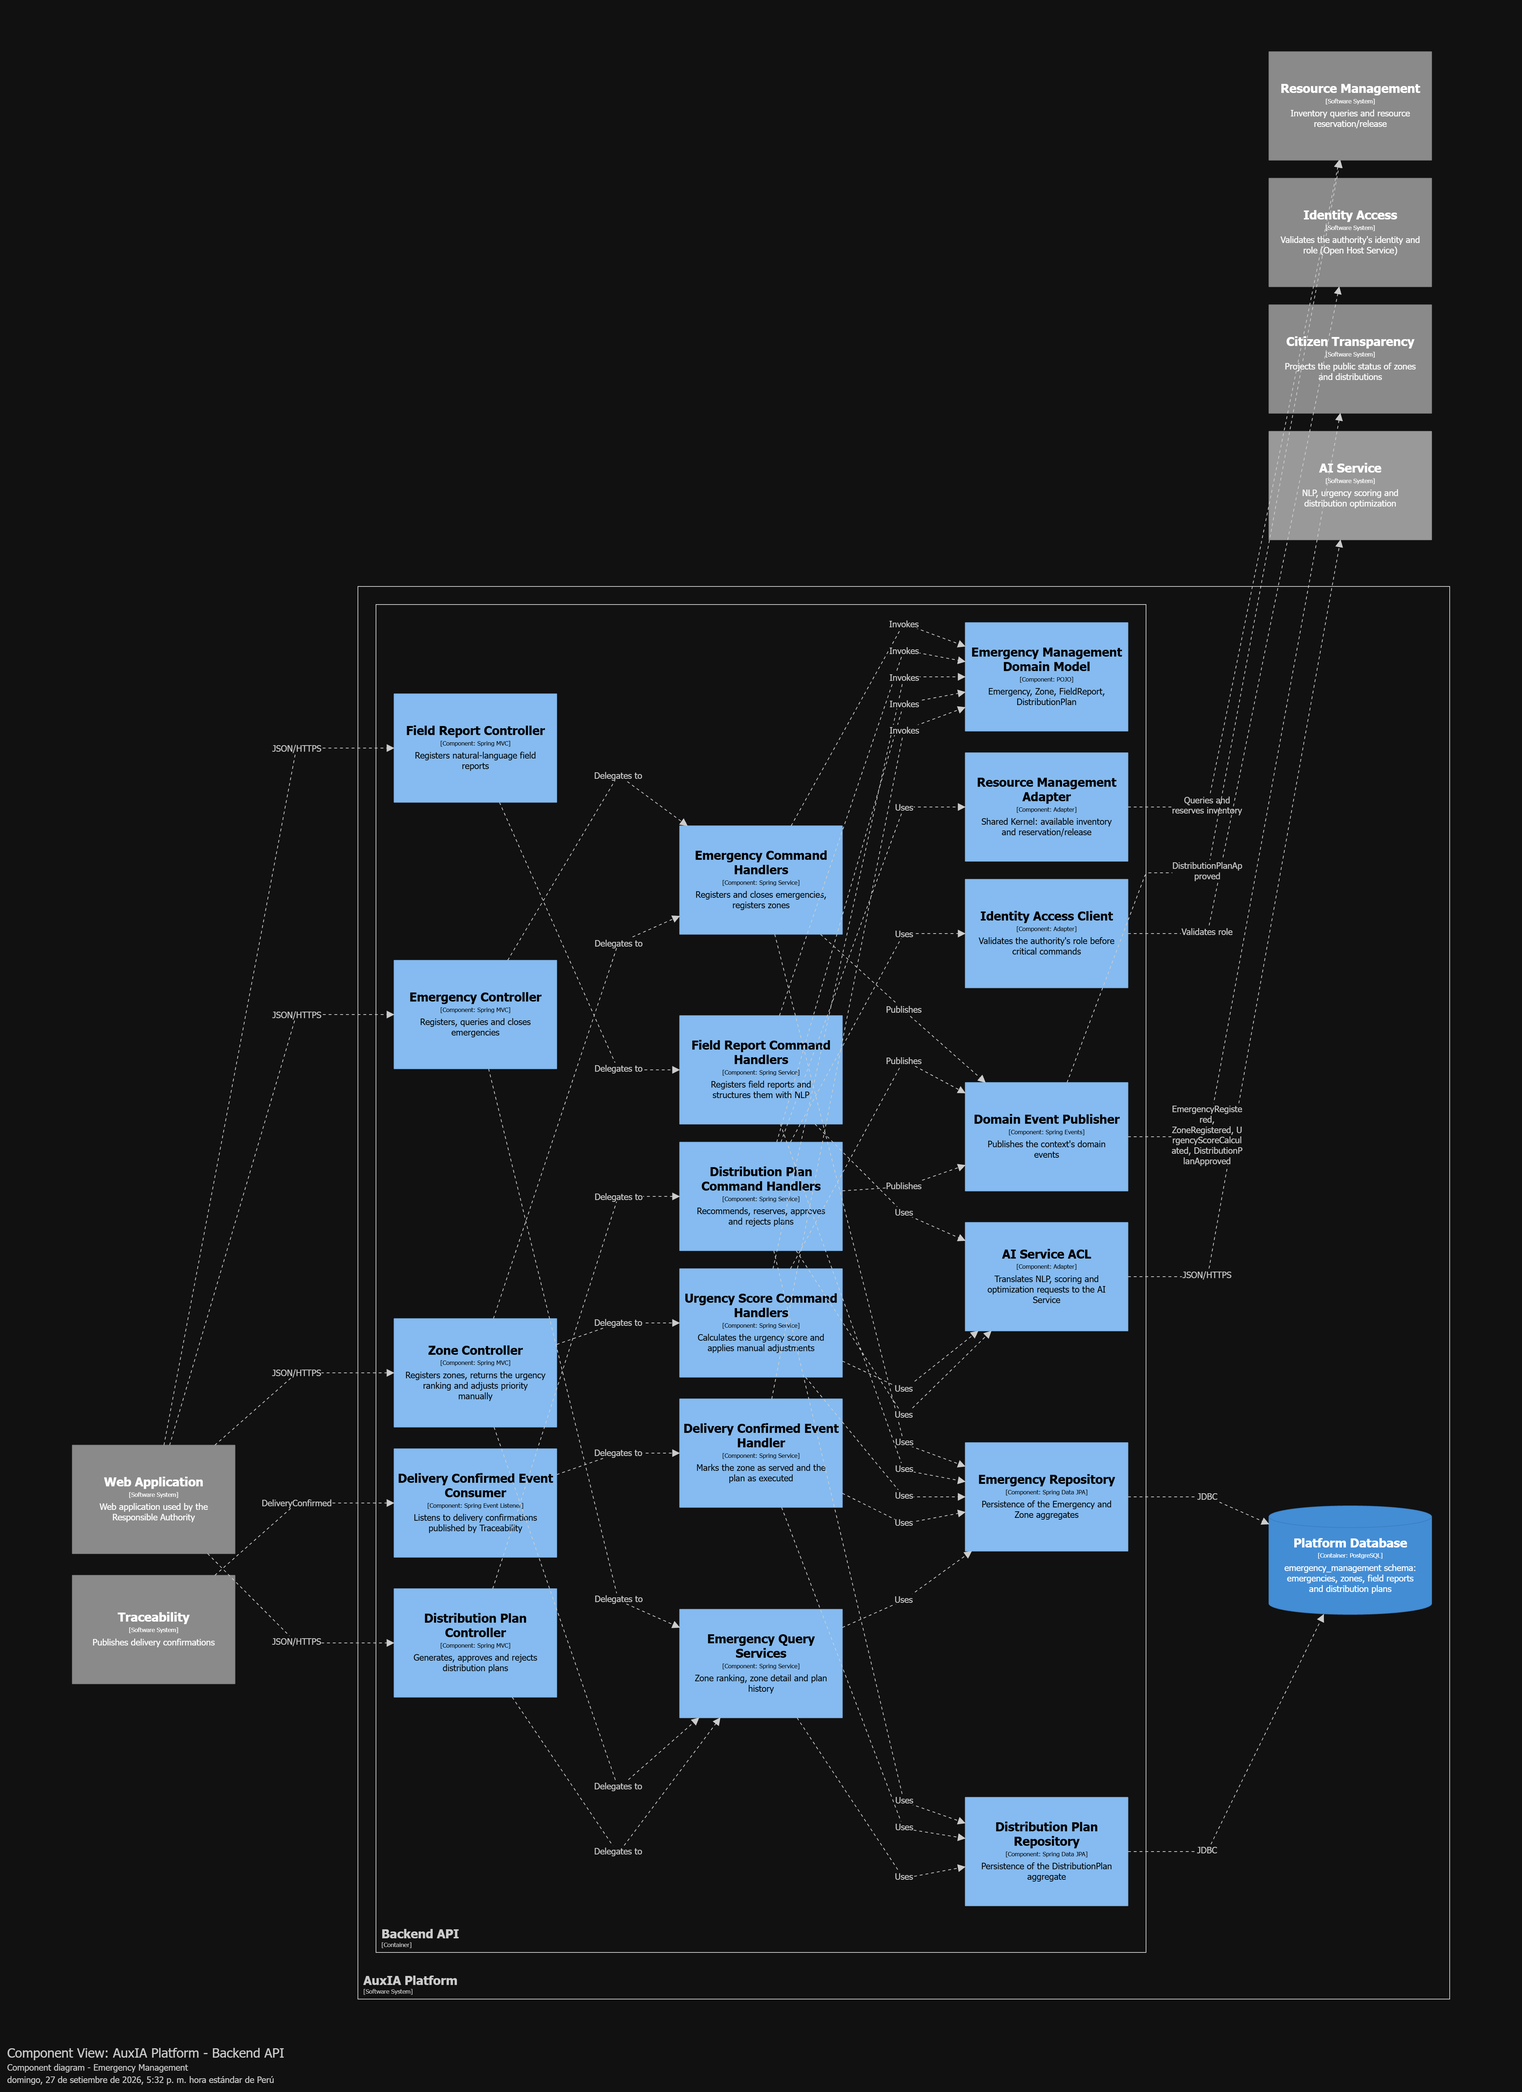
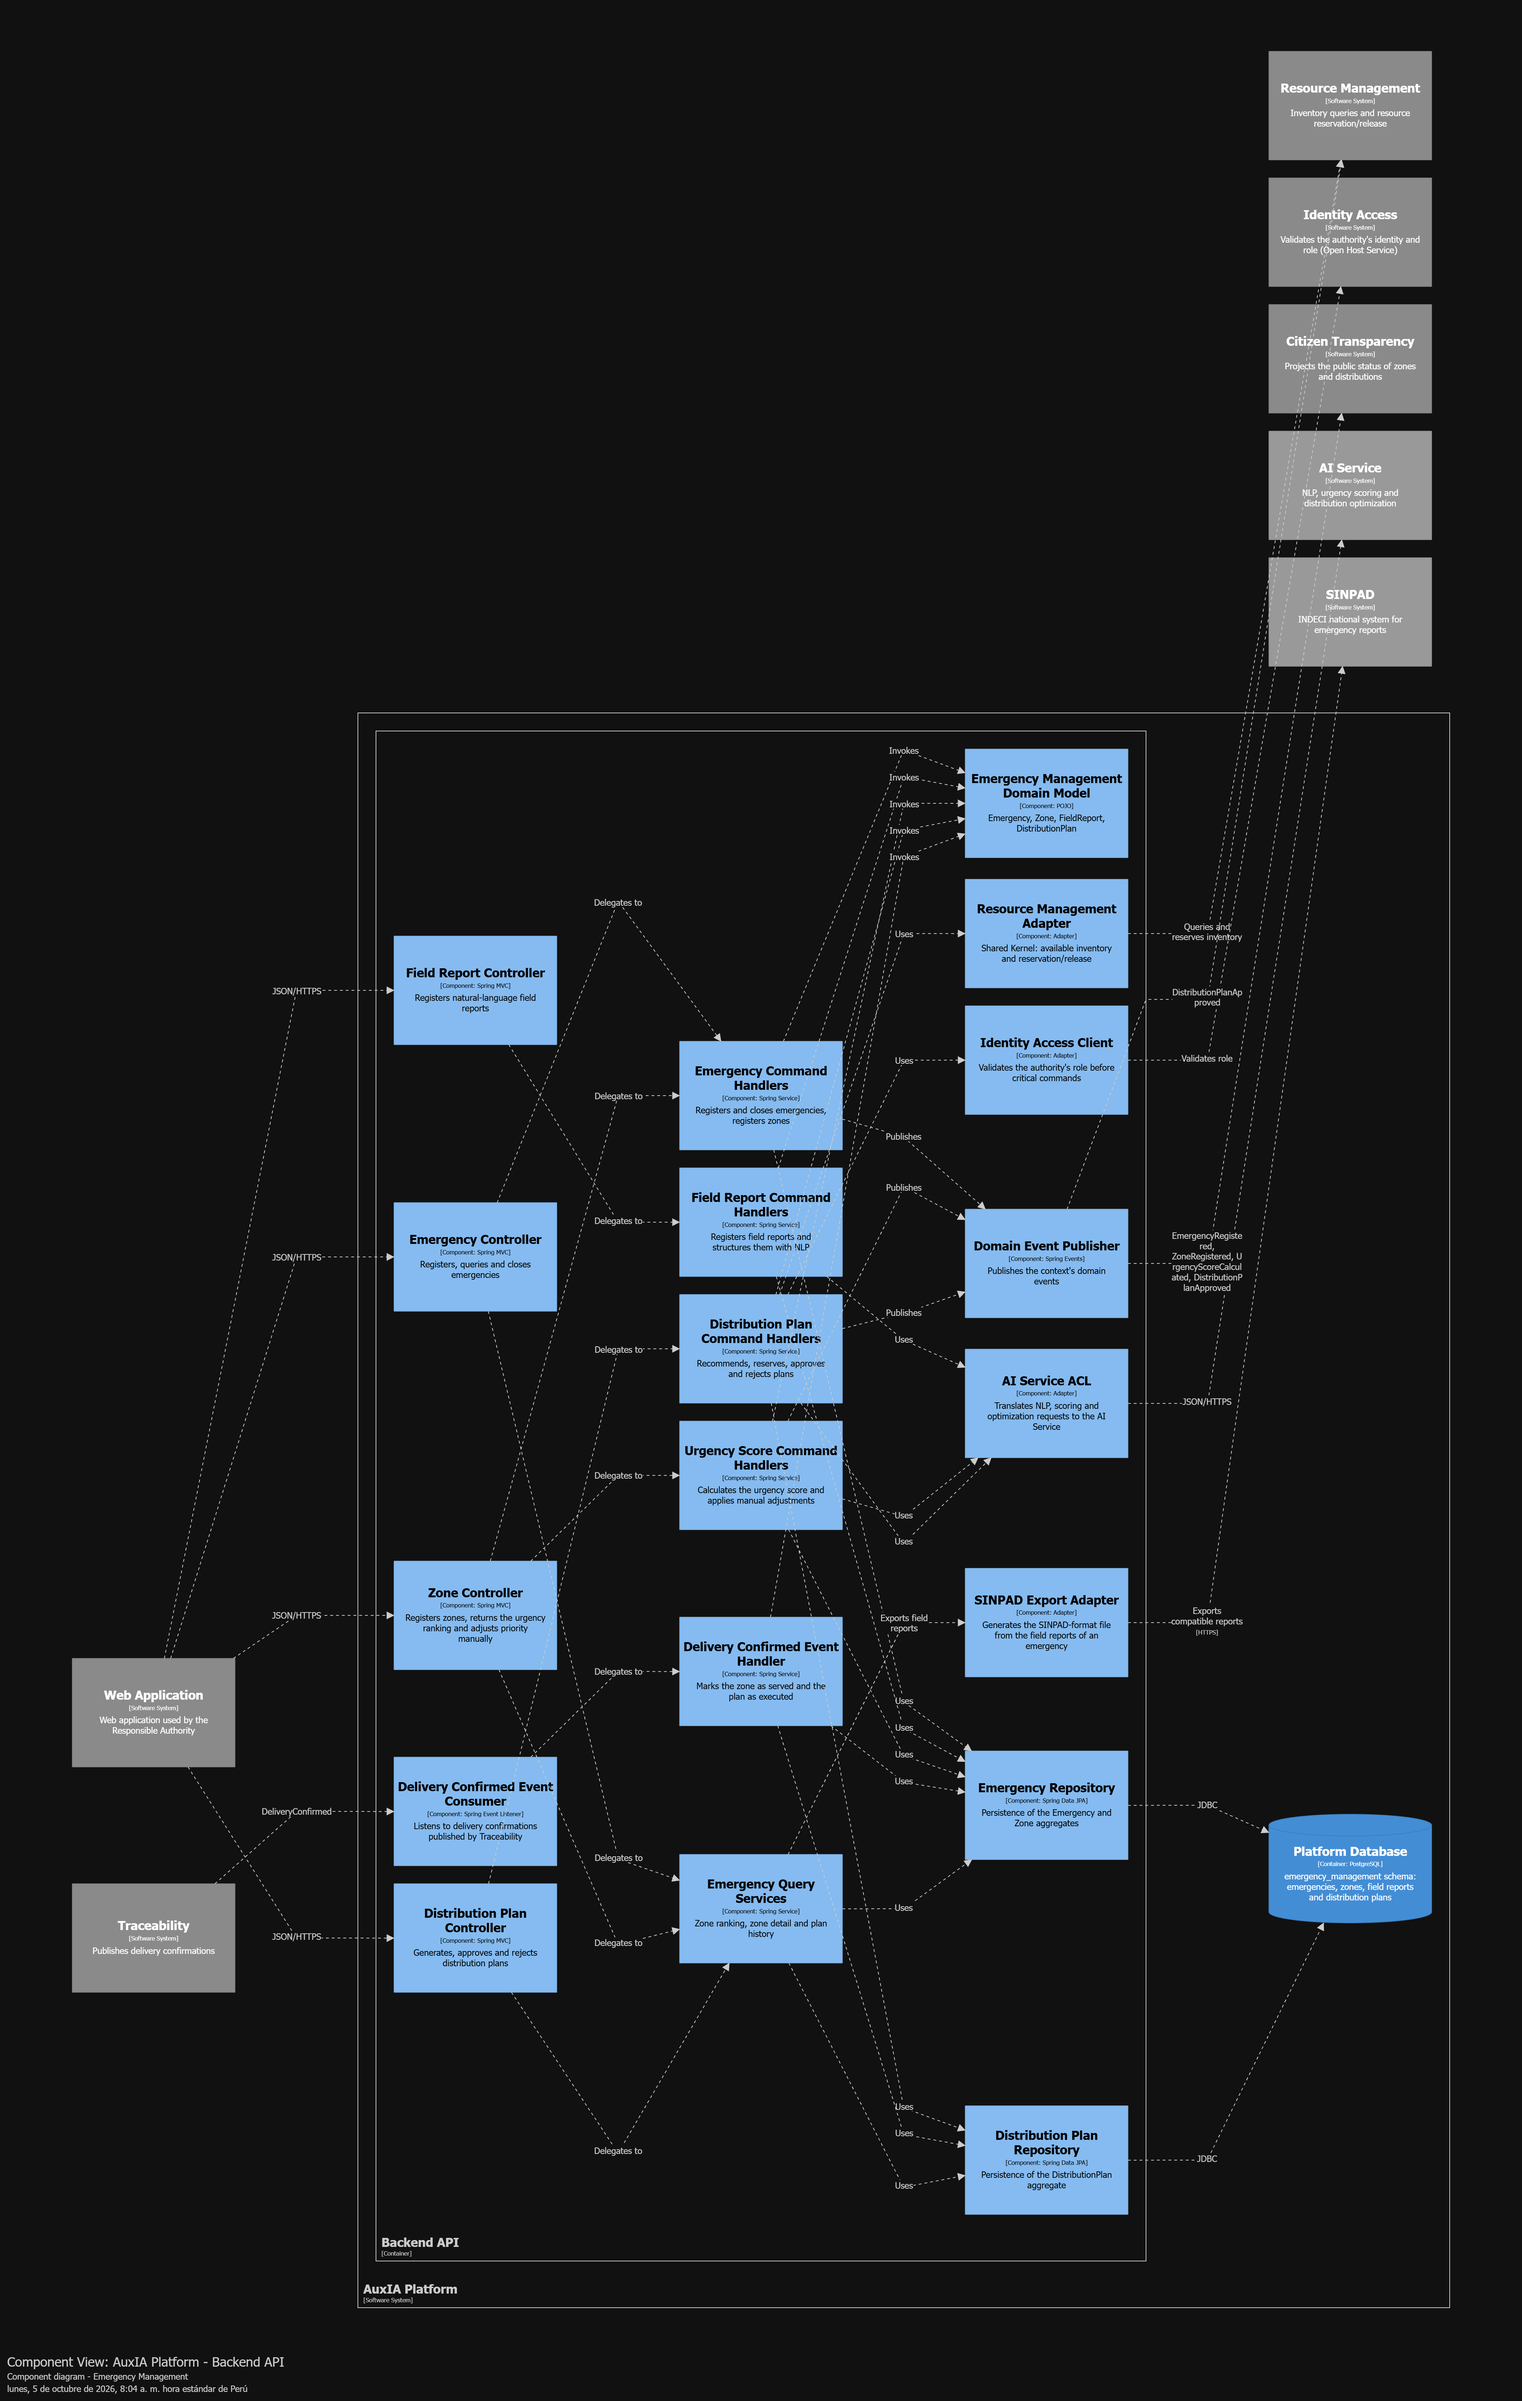
docs: add SINPAD export adapter to emergency management diagrams

diff --git a/chapters/chapter5.md b/chapters/chapter5.md
@@ -207,7 +207,7 @@ Los recursos de entrada son `RegisterEmergencyRequest`, `RegisterZoneRequest`, `
 
 ### 5.1.3. Application Layer
 
-La capa de aplicación tiene un Command Handler por caso de uso, dos Event Handlers y tres Query Services. Cada handler recibe los repositorios y puertos que necesita, carga el aggregate, llama al método de dominio que corresponde y guarda el resultado. Los puertos de salida (`FieldReportStructuringService`, `InventoryAvailabilityPort`, `ResourceReservationPort`, `AuthorizationPort` y `DomainEventPublisher`) se declaran en esta capa porque los handlers los usan para comunicarse con otros sistemas y no contienen reglas de negocio.
+La capa de aplicación tiene un Command Handler por caso de uso, dos Event Handlers y tres Query Services. Cada handler recibe los repositorios y puertos que necesita, carga el aggregate, llama al método de dominio que corresponde y guarda el resultado. Los puertos de salida (`FieldReportStructuringService`, `InventoryAvailabilityPort`, `ResourceReservationPort`, `AuthorizationPort`, `SinpadExportPort` y `DomainEventPublisher`) se declaran en esta capa porque los handlers los usan para comunicarse con otros sistemas y no contienen reglas de negocio.
 
 <div align="center">
 <img src="../assets/application-layer/EmergencyManagement.png" alt="Application Layer Emergency Management" width="900">
@@ -231,11 +231,12 @@ La capa de infraestructura implementa las interfaces del dominio y los puertos d
 *   **AI Service:** `RestFieldReportStructuringGateway`, `RestUrgencyScoringGateway` y `RestDistributionOptimizationGateway` forman el Anti-Corruption Layer hacia el AI Service. Llaman a sus endpoints de NLP (TS-01), score (TS-02) y optimización (TS-04) con `RestClient` y traducen cada respuesta a un value object del dominio.
 *   **Resource Management:** `InProcessInventoryAvailabilityAdapter` e `InProcessResourceReservationAdapter` llaman a `ResourceManagementContextFacade`, la fachada que Resource Management expone a los demás contextos. Como ambos corren en el mismo proceso, la llamada es directa y no pasa por HTTP (Shared Kernel).
 *   **Identity Access:** `IdentityAccessClient` implementa `AuthorizationPort` consultando el Open Host Service de Identity Access.
+*   **SINPAD:** `SinpadExportAdapter` implementa `SinpadExportPort`. Recibe los reportes de campo de una emergencia, los convierte al formato de SINPAD y los envía por HTTPS (US-33).
 *   **Eventos:** `SpringDomainEventPublisher` publica los domain events con el `ApplicationEventPublisher` de Spring para que los reciban Citizen Transparency, Resource Management y la auditoría.
 
 ### 5.1.5. Bounded Context Software Architecture Component Level Diagrams
 
-El diagrama muestra cómo se descompone Emergency Management dentro del contenedor Backend API. Controladores, handlers, repositorios y adaptadores aparecen como componentes separados; los demás bounded contexts y el AI Service aparecen como sistemas externos. Se modeló en Structurizr DSL y se exportó desde Structurizr Local.
+El diagrama muestra cómo se descompone Emergency Management dentro del contenedor Backend API. Controladores, handlers, repositorios y adaptadores aparecen como componentes separados; los demás bounded contexts, el AI Service y SINPAD aparecen como sistemas externos. Se modeló en Structurizr DSL y se exportó desde Structurizr Local.
 
 <div align="center">
 <img src="../assets/container-diagram/EmergencyManagement-Components.png" alt="Component Diagram Emergency Management" width="900">
@@ -250,6 +251,7 @@ El diagrama muestra cómo se descompone Emergency Management dentro del contened
 *   **AI Service ACL:** traduce las llamadas de NLP, score y optimización al contrato del AI Service (TS-C04).
 *   **Resource Management Adapter:** consulta el inventario disponible y pide la reserva o liberación de recursos (Shared Kernel).
 *   **Identity Access Client:** verifica el rol de la autoridad antes de aprobar o rechazar un plan (TS-C01).
+*   **SINPAD Export Adapter:** genera, a partir de los reportes de campo de una emergencia, el archivo en el formato de SINPAD (US-33).
 *   **Domain Event Publisher:** envía `EmergencyRegistered`, `ZoneRegistered`, `UrgencyScoreCalculated` y `DistributionPlanApproved` a Citizen Transparency, y `DistributionPlanApproved` también a Resource Management.
 
 ### 5.1.6. Bounded Context Software Architecture Code Level Diagrams

diff --git a/versions.md b/versions.md
@@ -72,6 +72,7 @@
 | 0.1.28  | 03/10/2026 | Tomio Nakamurakare | Incorporación de la sección 6.5 Applications Prototyping con los prototipos de Figma de la Web App y la aplicación móvil, y de los Capítulos VI y VII en la tabla de contenido. |
 | 0.1.29  | 03/10/2026 | Tomio Nakamurakare | Ajustes del Capítulo V (modificación de planes de distribución antes de su aprobación y exportación SINPAD como adaptador de salida de Emergency Management) y rediseño de la escala del tono de comunicación en la sección 6.1.1. |
 | 0.1.30  | 04/10/2026 | Iker Barturen  | Actualización para la entrega TP1 (release 0.2.0): Registro de Versiones, Project Report Collaboration Insights, Student Outcome, avance de Conclusiones, Bibliografía y Anexos. |
+| 0.1.31 | 05/10/2026 | Iker Barturen | Incorporación del adaptador de exportación a SINPAD en el Component Level Diagram y en la capa de infraestructura de Emergency Management, con su descripción en las secciones 5.1.3, 5.1.4 y 5.1.5. |
 
 ## Project Report Collaboration Insights
 
